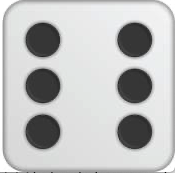
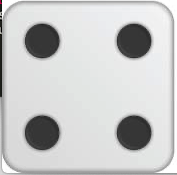
hw8 done

diff --git a/Assignment8/PartIV/graphics/RollDice.java b/Assignment8/PartIV/graphics/RollDice.java
@@ -1,19 +1,111 @@
 package graphics;
 
+import java.awt.BorderLayout;
+import java.awt.Color;
+import java.awt.GridLayout;
+import java.awt.event.MouseAdapter;
+import java.awt.event.MouseEvent;
+import javax.swing.JButton;
 import javax.swing.JFrame;
-import java.awt.*;
+import javax.swing.JLabel;
+import javax.swing.JPanel;
 
 public class RollDice extends JFrame {
 
-	
+	private static final long serialVersionUID = 9158824910956861673L;
+	private ImagePanel img1JPanel;
+	private ImagePanel img2JPanel;
+	private JLabel resultJLabel;
+	private JPanel dicesPanel;
+	private JPanel resultPanel;
+	private JPanel buttonPanel;
+	private JPanel wrapperPanel;
+	private int dice1 = 1;
+	private int dice2 = 1;
+	private int result = 2;
+
+	public static int getRollNumber() {
+		return (int) (Math.random() * 6) + 1;
+	}
+
+	public void initView() {
+		this.setDefaultCloseOperation(JFrame.EXIT_ON_CLOSE);
+		this.setBackground(Color.LIGHT_GRAY);
+		wrapperPanel = new JPanel(new BorderLayout());
+		dicesPanel = new JPanel(new GridLayout(1, 2));
+
+		resultPanel = new JPanel();
+		resultJLabel = new JLabel();
+		resultPanel.add(resultJLabel);
+
+		this.repaint();
+
+		buttonPanel = new JPanel();
+		JButton rollButton = new JButton("Roll Dice");
+		rollButton.addActionListener((e) -> {
+			this.rollNthDice(1);
+			this.rollNthDice(2);
+			this.repaint();
+		});
+		buttonPanel.add(rollButton);
+		wrapperPanel.add(dicesPanel, BorderLayout.NORTH);
+		wrapperPanel.add(resultPanel, BorderLayout.CENTER);
+		wrapperPanel.add(buttonPanel, BorderLayout.SOUTH);
+
+		this.add(wrapperPanel);
+		this.setSize(600, 400);
+		this.setVisible(true);
+	}
+
+	private void rollNthDice(int diceIndex) {
+		if (diceIndex == 1) {
+			this.dice1 = getRollNumber();
+		} else if (diceIndex == 2) {
+			this.dice2 = getRollNumber();
+		}
+	}
+
+	public ImagePanel getDiceImage(int number, int diceIndex) {
+		ImagePanel img = new ImagePanel("PartIV/die" + number + ".png");
+		img.addMouseListener(new DiceListener(diceIndex));
+		return img;
+	}
+
+	public void repaint() {
+		this.result = dice1 + dice2;
+		resultJLabel.setText("Result: " + this.result);
+		dicesPanel.removeAll();
+		img1JPanel = getDiceImage(dice1, 1);
+		img2JPanel = getDiceImage(dice2, 2);
+		dicesPanel.add(img1JPanel);
+		dicesPanel.add(img2JPanel);
+	}
+
+	class DiceListener extends MouseAdapter {
+		private int diceIndex;
+
+		public DiceListener() {
+			super();
+		}
+
+		public DiceListener(int dice) {
+			super();
+			diceIndex = dice;
+		}
+
+		@Override
+		public void mouseClicked(MouseEvent event) {
+			rollNthDice(diceIndex);
+			RollDice.this.repaint();
+		}
+	}
+
 	public RollDice() {
+		this.initView();
 	}
 
 	public static void main(String[] args) {
 		RollDice rollDice = new RollDice();
 
-		ImagePanel panel = new ImagePanel("die.png");
-		panel.setVisible(true);
-	
 	}
 }

diff --git a/Assignment8/PartIV/graphics/ImagePanel.java b/Assignment8/PartIV/graphics/ImagePanel.java
@@ -1,14 +1,14 @@
 package graphics;
 
-import javax.swing.*;
-import java.io.*;
-// import java.awt.Dimension;
-// import java.awt.Graphics;
-import java.awt.*;
+import java.awt.Dimension;
+import java.awt.Graphics;
+import java.awt.Image;
+
 import javax.swing.ImageIcon;
 import javax.swing.JPanel;
 
 public class ImagePanel extends JPanel {
+
     private static final long serialVersionUID = 399074610321541873L;
     private Image img;
 
@@ -19,19 +19,15 @@ public class ImagePanel extends JPanel {
     public ImagePanel(Image img) {
         this.img = img;
         Dimension size = new Dimension(img.getWidth(null), img.getHeight(null));
-        // setDefaultCloseOperation(JFrame.EXIT_ON_CLOSE);
-        this.setSize(600, 400);
         setPreferredSize(size);
-        /*
-         * setMinimumSize(size); setMaximumSize(size); setSize(size);
-         */
+        setMinimumSize(size);
+        setMaximumSize(size);
+        setSize(size);
         setLayout(null);
-        add(topPanel, BorderLayout.NORTH);
-
-
     }
 
     public void paintComponent(Graphics g) {
-        g.drawImage(img, 50, 0, null);
+        g.drawImage(img, 0, 0, null);
     }
+
 }
